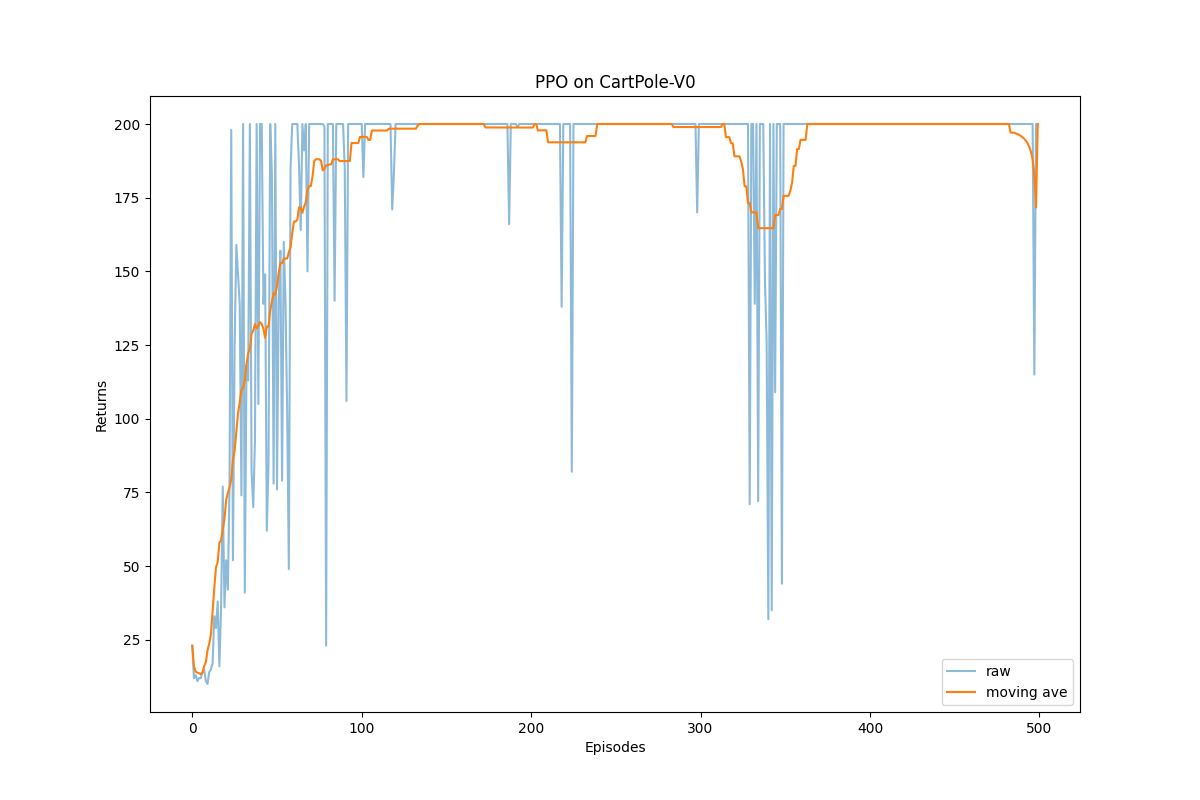
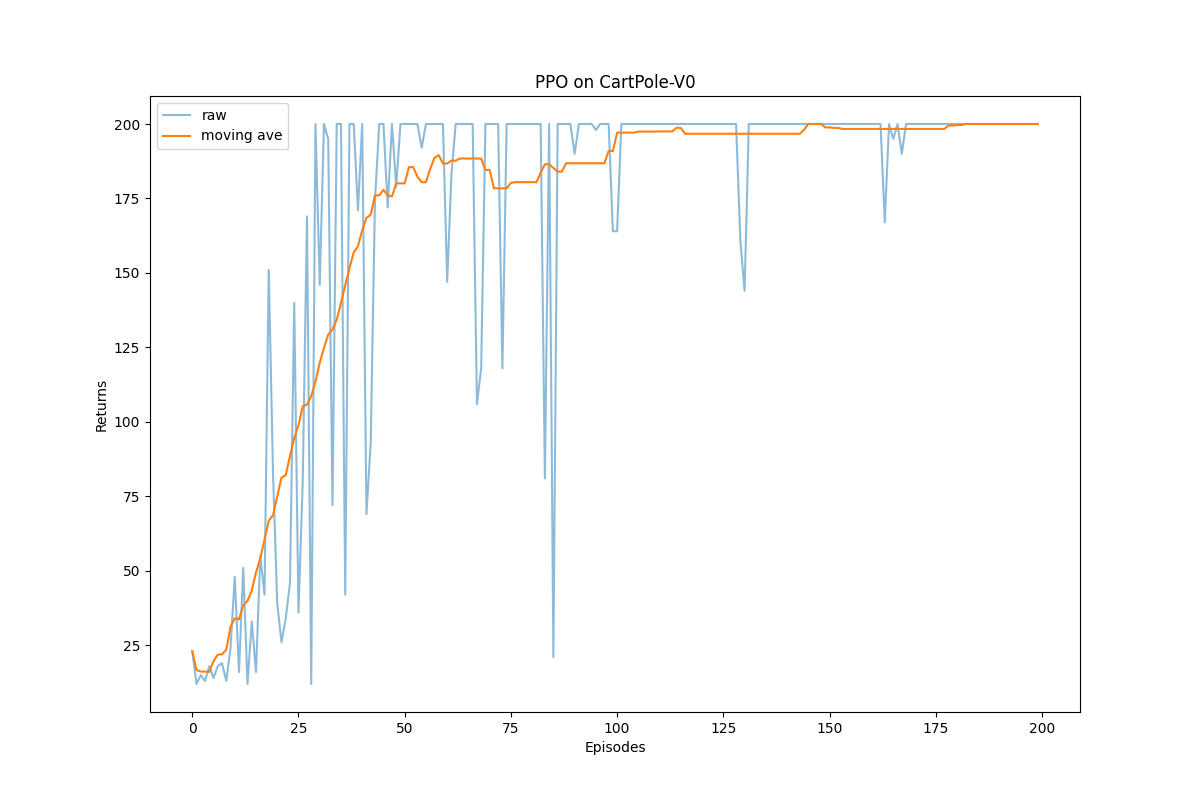
fix a bug about replay buffer init of DQN project; Add tensorboard to PPO project

diff --git a/8_[Gym] CartPole-V0 (PPO)/PPO.py b/8_[Gym] CartPole-V0 (PPO)/PPO.py
@@ -7,6 +7,8 @@ import matplotlib.pyplot as plt
 from tqdm import tqdm
 from gym.utils.env_checker import check_env
 from gym.wrappers import TimeLimit 
+from datetime import datetime
+from torch.utils.tensorboard import SummaryWriter
 
 class PolicyNet(torch.nn.Module):
     ''' 策略网络是一个两层 MLP '''
@@ -117,8 +119,8 @@ if __name__ == "__main__":
     action_range = 2            # 环境动作空间大小
     actor_lr = 1e-3
     critic_lr = 1e-2
-    num_episodes = 500
-    hidden_dim = 128
+    num_episodes = 200
+    hidden_dim = 64
     gamma = 0.98
     lmbda = 0.95
     epochs = 10
@@ -133,6 +135,13 @@ if __name__ == "__main__":
 
     # build agent
     agent = PPO(state_dim, hidden_dim, action_range, actor_lr, critic_lr, lmbda, epochs, eps, gamma, device)
+
+    '''
+    # TensorBoard writer
+    TIMESTAMP = "{0:%Y-%m-%dT%H-%M-%S/}".format(datetime.now())
+    writer = SummaryWriter(f"logs/PPO")
+    #writer = SummaryWriter(f"logs/PPO/{TIMESTAMP}")
+    '''
 
     # start training
     return_list = []
@@ -183,6 +192,32 @@ if __name__ == "__main__":
                 })
                 pbar.update(1)
 
+                '''
+                writer.add_scalars(
+                    main_tag='return', 
+                    tag_scalar_dict={f'hidden{hidden_dim}':episode_return}, 
+                    global_step=i*int(num_episodes / 10) + i_episode
+                )
+                '''
+
+    '''
+    writer.add_hparams(
+        hparam_dict={
+            'actor_lr': actor_lr, 
+            'critic_lr': critic_lr,
+            'hidden_dim': hidden_dim,
+            'gamma': gamma,
+            'lmbda': lmbda,
+            'eps': eps,
+            'num_episodes': num_episodes
+        },
+        metric_dict={
+            'hparam/ave return': np.mean(return_list), 
+        }
+    )
+    writer.close()
+    '''
+    
     # show policy performence
     mv_return_list = moving_average(return_list, 29)
     episodes_list = list(range(len(return_list)))
@@ -195,3 +230,4 @@ if __name__ == "__main__":
     plt.legend()
     plt.savefig(f'./result/{agent._get_name()}.png')
     plt.show()                           
+    

diff --git a/5_[Gym Custom] RollingBall (DQN and Double DQN and Dueling DQN)/DQN.py b/5_[Gym Custom] RollingBall (DQN and Double DQN and Dueling DQN)/DQN.py
@@ -197,6 +197,7 @@ if __name__ == "__main__":
         action = env.action_space.sample()
         next_state, reward, terminated, truncated, _ = env.step(action)
         replay_buffer.add(state, action, reward, next_state, done=terminated or truncated)
+        state = next_state
         if terminated or truncated:
             env.render()
             state, _ = env.reset()
